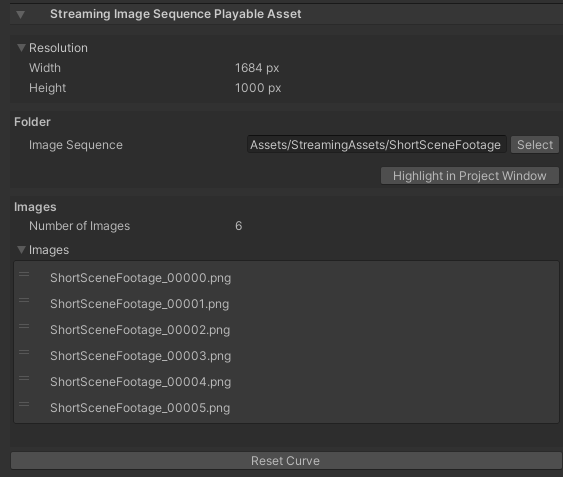
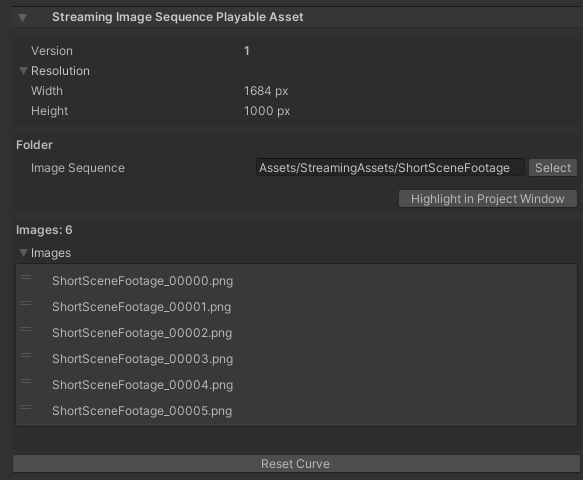
docs: documentation for 0.0.2-preview.2 (#44)
* Rename Demo.gif to StreamingImageSequenceDemo.gif
* Update StreamingImageSequencePlayableAsset.png
* Rename DragAndDropStreamingAssets.png to DragAndDropFolder.png
* Add images
* Updating docs
* Update main readme
* Update the description in package. Also increase the version to 0.0.2-preview.2

diff --git a/README.md b/README.md
@@ -1,63 +1,28 @@
-![demo](./Documentation~/images/Demo.gif)
-
 # Streaming Image Sequence
 
 Streaming Image Sequence is a package for playing sequential image sequences in Unity Timeline 
-easily without making Unity 2D Sprites. 
+easily without making Unity 2D Sprites.
 
 # Supported Platforms
 
 1. Windows
 2. Mac
 
-# Basic Usage 
 
-1. Create an empty *GameObject* and add a *Director* component to it
-1. Copy the sequential images in a folder under *StreamingAssets*
-1. Open the Timeline window, if not opened yet
-1. Add a StreamingImageSequenceTrack in the Timeline Window
+# Features
 
-   <img src="Documentation~/images/AddStreamingImageSequenceTrack.png" width=180>  
-   
-1. Drag and Drop the sequential images folder under *StreamingAssets* to the StreamingImageSequenceTrack added previously
- 
-   <img src="Documentation~/images/DragAndDropStreamingAssets.png" width=640>  
-   
-1. Create an Image object by clicking the menu: GameObject -> UI -> Image
+### [Playing Sequential Images](./Documentation~/en/StreamingImageSequencePlayableAsset.md)
+<img src="./Documentation~/images/StreamingImageSequenceDemo.gif" width=400>  
 
-1. Drag and drop the Image object to the object property of StreamingImageSequenceTrack, and click *Create StreamingImageSequenceNativeRenderer on Image* 
+### [Fading Image objects](./Documentation~/en/FaderPlayableAsset.md)
+<img src="./Documentation~/images/FaderDemo.gif" width=280>  
 
-   <img src="Documentation~/images/CreateStreamingImageSequenceNativeRenderer.png" width=640>  
-
-1. The image sequences in the folder will then be shown inside the Image object, 
-   and the Image object will be played/enabled/disabled as we play the Timeline or drag the time slider of the Timeline window
-
-For other ways for importing images, see [ImportingImages](Documentation~/en/ImportingImages.md)
-
-
-# StreamingImageSequence PlayableAsset
-
-<img src="Documentation~/images/StreamingImageSequencePlayableAsset.png" align=right width=400>
-
-* **Resolution** (Read Only)  
-  Shows the width and height of the first image in the folder
-* **Folder**  
-  The folder where the image files for this PlayableAsset are located
-* **Images**  
-  The images inside the folder.
-  We can reorder the images by dragging the image file name up/down.
-* **Reset Curve**.  
-  Reset the curve timing in the PlayableAsset to be linear.
-
-
-## License
+# License
 * Source Code: [Unity Companion License](LICENSE.md)
-* Unity-chan Assets: [Unity-Chan License](http://unity-chan.com/contents/guideline_en/).
-  Unity
-  Unity-chan Assets are located under the following folder:
+* Unity-chan Assets: [Unity-Chan License](http://unity-chan.com/contents/guideline_en/), located under the following folder:
   - `AE~/Samples`
   - `StreamingImageSequence~/Assets/StreamingAssets`  
 
-## Tutorial Videos
+# Tutorial Videos
 - [Usage Video](https://youtu.be/mlRbwqJ74CM)
 - [Example](https://youtu.be/4og6rgQdb3c)

diff --git a/Documentation~/en/ImportingImages.md b/Documentation~/en/ImportingImages.md
@@ -2,17 +2,29 @@
 
 There are a couple of ways to import images into StreamingImageSequencePlayableAsset
 
-1. [Folder Drag and Drop to the track](#Folder Drag and Drop to the track)
-1. [Importing a file exported from Adobe After Effects using our StreamingImageSequence script for Adobe After Effects](Using StreamingImageSequence plugin for Adobe After Effects)
+1. [Folder Drag and Drop to the track](#folder-drag-and-drop-to-the-track)
+1. [Setting the folder via inspector](#setting-the-folder-via-inspector)
+1. [Using StreamingImageSequence script for Adobe After Effects](#using-streamingImageSequence-script-for-adobe-after-effects)
 
-# Folder Drag and Drop to the track
+## Folder Drag and Drop to the track
 
-This is done by doing drag and drop of the sequential images folder under *StreamingAssets* to the StreamingImageSequenceTrack.
+This is done by doing drag and drop of the sequential images folder to the StreamingImageSequenceTrack.
 
-<img src="../images/DragAndDropStreamingAssets.png" width=960>  
+<img src="../images/DragAndDropFolder.png" width=960>  
 
+## Setting the Folder via Inspector
 
-# Using StreamingImageSequence script for Adobe After Effects
+We can simply click the **Select** button, or we can also drag and drop a folder directly into the inspector.
+<img src="../images/DragAndDropInspector.png" width=640>  
+
+If the chosen folder is not under *StreamingAssets*, then the following import window will appear to confirm if we'd like to copy the images into *StreamingAssets*.   
+We can choose to skip copying by unchecking the checkbox to do so.
+
+<img src="../images/ImporterWindow.png" width=480>  
+
+> Copying to *StreamingAssets* is recommended because it saves us from the import process, which may take a long time if there are a lot of images.
+
+## Using StreamingImageSequence script for Adobe After Effects
 
 1. In Adobe After Effects, Run [StreamingImageSequence script for Adobe After Effects](https://github.com/unity3d-jp/StreamingImageSequence/tree/dev/AE~/Plugins) to export the images into a folder.
 2. In Unity, click the menu: Assets -> StreamingImageSequence -> Import AE Timeline, and select the *jstimeline* file in the exported folder.
@@ -20,9 +32,3 @@ This is done by doing drag and drop of the sequential images folder under *Strea
 > This import will also create/setup the required Director and Image objects in the Assets/{jstimeline_name} folder.  
 Importing a *jstimeline* which has the same file name as a previously imported *jstimeline* will overwrite the existing assets in the folder, 
 so it is recommended to move these assets into another folder.
-
-
-
-
-
-

diff --git a/Documentation~/en/StreamingImageSequencePlayableAsset.md b/Documentation~/en/StreamingImageSequencePlayableAsset.md
@@ -1,0 +1,68 @@
+# StreamingImageSequencePlayableAsset
+
+A playable asset for playing sequential image sequences in Unity Timeline.
+
+# Supported Image Formats
+
+
+|             | Windows            | Mac                |
+| ----------- | ------------------ | ------------------ |
+| png         | :white_check_mark: | :white_check_mark: |    
+| tga         | :white_check_mark: |                    |
+
+
+# Tutorial 
+
+From an empty scene, do the following:
+
+1. Create an empty *GameObject* and add a *Director* component to it
+1. Copy the sequential images in a folder inside the Unity project, preferably under *StreamingAssets*
+   > Copying to a folder under *StreamingAssets* will save us from the process to import those images in Unity, which may take a long time if there are a lot of images
+1. Open the Timeline window, if not opened yet
+1. Add a StreamingImageSequenceTrack in the Timeline Window
+
+   <img src="../images/AddStreamingImageSequenceTrack.png" width=180>  
+   
+1. Drag and Drop the sequential images folder to the StreamingImageSequenceTrack added previously
+ 
+   <img src="../images/DragAndDropFolder.png" width=960>  
+   
+1. Create an Image object by clicking the menu: GameObject -> UI -> Image
+
+1. Drag and drop the Image object to the object property of the StreamingImageSequenceTrack, and click *Create StreamingImageSequenceNativeRenderer on Image* 
+
+   <img src="../images/CreateStreamingImageSequenceNativeRenderer.png" width=960>  
+
+
+The image sequences in the folder will then be shown inside the Image object, 
+and the Image object will be played/enabled/disabled as we play the Timeline or drag the time slider of the Timeline window.
+
+
+For other ways for importing images, see [ImportingImages](ImportingImages.md)
+
+
+# Curve
+
+We can also change the timing of the playback by adjusting the curve of the asset.   
+To do this, open the curve section, and right click on the curve to start adding keys.
+
+
+<img src="../images/StreamingImageSequenceCurve.png" width=640>
+
+
+# Inspector
+
+<img src="../images/StreamingImageSequencePlayableAsset.png" align=right width=400>
+
+* **Resolution** (Read Only)  
+  Shows the width and height of the first image in the folder
+* **Folder**  
+  The folder where the image files are located
+* **Images**  
+  The images inside the folder.
+  We can reorder the images by dragging the image file name up/down.
+* **Reset Curve**.  
+  Reset the curve timing in the PlayableAsset to be linear.
+
+
+

diff --git a/Documentation~/index.md b/Documentation~/index.md
@@ -1,5 +1,3 @@
-![demo](./images/Demo.gif)
-
 # Streaming Image Sequence
 
 Streaming Image Sequence is a package for playing sequential image sequences in Unity Timeline 
@@ -10,44 +8,15 @@ easily without making Unity 2D Sprites.
 1. Windows
 2. Mac
 
-# Basic Usage 
 
-1. Create an empty *GameObject* and add a *Director* component to it
-1. Copy the sequential images in a folder under *StreamingAssets*
-1. Open the Timeline window, if not opened yet
-1. Add a StreamingImageSequenceTrack in the Timeline Window
+# Features
 
-   <img src="images/AddStreamingImageSequenceTrack.png" width=180>  
-   
-1. Drag and Drop the sequential images folder under *StreamingAssets* to the StreamingImageSequenceTrack added previously
- 
-   <img src="images/DragAndDropStreamingAssets.png" width=960>  
-   
-1. Create an Image object by clicking the menu: GameObject -> UI -> Image
+### [Playing Sequential Images](en/StreamingImageSequencePlayableAsset.md)
+<img src="./images/StreamingImageSequenceDemo.gif" width=400>  
 
-1. Drag and drop the Image object to the object property of StreamingImageSequenceTrack, and click *Create StreamingImageSequenceNativeRenderer on Image* 
+### [Fading Image objects](en/FaderPlayableAsset.md)
+<img src="./images/FaderDemo.gif" width=280>  
 
-   <img src="images/CreateStreamingImageSequenceNativeRenderer.png" width=960>  
-
-1. The image sequences in the folder will then be shown inside the Image object, 
-   and the Image object will be played/enabled/disabled as we play the Timeline or drag the time slider of the Timeline window
-
-
-For other ways for importing images, see [ImportingImages](en/ImportingImages.md)
-
-# StreamingImageSequence PlayableAsset
-
-<img src="images/StreamingImageSequencePlayableAsset.png" align=right width=400>
-
-* **Resolution** (Read Only)  
-  Shows the width and height of the first image in the folder
-* **Folder**  
-  The folder where the image files for this PlayableAsset are located
-* **Images**  
-  The images inside the folder.
-  We can reorder the images by dragging the image file name up/down.
-* **Reset Curve**.  
-  Reset the curve timing in the PlayableAsset to be linear.
 
 
 

diff --git a/Documentation~/en/FaderPlayableAsset.md b/Documentation~/en/FaderPlayableAsset.md
@@ -1,0 +1,44 @@
+# FaderPlayableAsset
+
+A playable asset for fading Image component in Unity Timeline.
+
+# Tutorial 
+
+From an empty scene, do the following:
+
+1. Create an empty *GameObject* and add a *Director* component to it
+1. Copy the sequential images in a folder inside the Unity project, preferably under *StreamingAssets*
+   > Copying to a folder under *StreamingAssets* will save us from the process to import those images in Unity, which may take a long time if there are a lot of images
+1. Open the Timeline window, if not opened yet
+1. Add a FaderTrack in the Timeline Window
+
+   <img src="../images/AddFaderTrack.png" width=180>  
+   
+1. Right click on the timeline window and click *Add Fader Playable Asset*
+ 
+   <img src="../images/AddFaderPlayableAsset.png" width=480>  
+   
+1. Create an Image object by clicking the menu: GameObject -> UI -> Image
+
+1. Drag and drop the Image object to the object property of the FaderTrack 
+
+
+
+The Image object will be faded in/out as we play the Timeline or drag the time slider of the Timeline window.
+
+
+
+# Inspector
+
+<img src="../images/FaderPlayableAsset.png" align=right  width=320>  
+
+* **Color**   
+  The color to be applied to the Image component attached to the track.
+* **Fade Type**  
+  - FadeIn : from invisible (alpha=0) to visible   (alpha=1) 
+  - FadeOut: from visible   (alpha=1) to invisible (alpha=0) 
+
+
+
+
+
